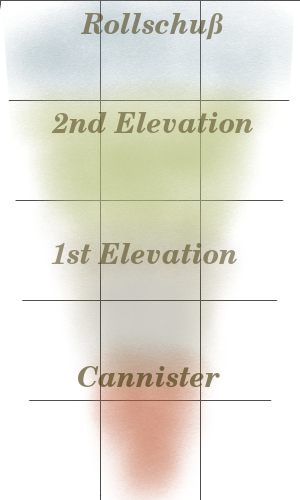
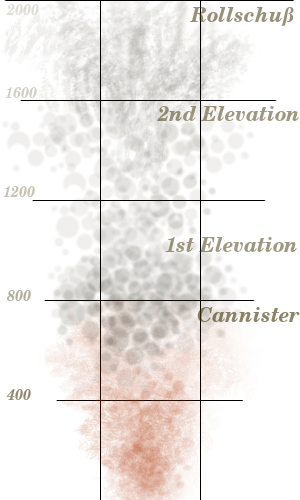
finish off the gunnery table displays, and fix unitcards on game invite view

diff --git a/scss/_Button.sass b/scss/_Button.sass
@@ -98,6 +98,9 @@ input[type='submit']
 				color: $color-primary
 				border-color: inherit
 
+	&.button-case
+		text-transform: none
+
 	&.button-clear
 		color: $color-primary
 		background-color: transparent

diff --git a/scss/app.sass b/scss/app.sass
@@ -385,3 +385,6 @@ img
 
 	&:focus
 		border: 1px solid rgba(47, 44, 78, 0.74) !important
+
+.gunnery_chart
+	height: 80vh !important

diff --git a/app/game_invite.go b/app/game_invite.go
@@ -36,6 +36,7 @@ func _gameInvite(action string, actionID int, context *router.Context) {
 	go func() {
 		game := shared.Game{}
 		TheCmd := &shared.GameCmd{}
+		TheUnit := &shared.Unit{}
 
 		rerr := RPC("GameRPC.GetInvite", shared.GameRPCData{
 			Channel:  Session.Channel,
@@ -349,16 +350,57 @@ func _gameInvite(action string, actionID int, context *router.Context) {
 				tr := td.ParentElement()
 				key, _ := strconv.Atoi(tr.GetAttribute("key"))
 				team := tr.GetAttribute("data-team")
-				// print("clicked on row with key", key)
+				print("clicked on row with key", key)
 				unit := game.GetUnit(team, key)
-				// print("unit is", unit)
+				TheUnit = unit
+				print("unit is", unit)
 				if unit.UType == 1 {
 					unit.Summary = unit.GetSummary(TheCmd)
 				}
 				loadTemplate("unit-details", "#unit-details", unit)
 				doc.QuerySelector("#unit-details").AddEventListener("click", false, func(evt dom.Event) {
 					// print("clicke on the unit details")
-					doc.QuerySelector("#unit-details").Class().Remove("md-show")
+					unit := TheUnit
+					el := evt.Target()
+					print("clicked on a ", el.TagName())
+					if el.TagName() == "INPUT" {
+						value := el.(*dom.HTMLInputElement).Value
+						print("with value", value)
+						print("on utype", unit.UType)
+						switch unit.UType {
+						case 1:
+							doc.QuerySelector("#unit-details").Class().Remove("md-show")
+						case 2, 5:
+							switch value {
+							case "Valour":
+								loadTemplate("unit-valour", "[name=unitcard]", unit)
+								return
+							case "Discipline":
+								loadTemplate("unit-discipline", "[name=unitcard]", unit)
+								return
+							default:
+								doc.QuerySelector("#unit-details").Class().Remove("md-show")
+							}
+						case 3:
+							// print("in cav with", value)
+							switch value {
+							case "Honours":
+								// print("here with Honours")
+								loadTemplate("unit-cav-details", "[name=unitcard]", unit)
+								return
+							default:
+								doc.QuerySelector("#unit-details").Class().Remove("md-show")
+							}
+						case 4:
+							switch value {
+							case "Gunnery Chart":
+								loadTemplate("unit-gunnery", "[name=unitcard]", unit)
+								return
+							default:
+								doc.QuerySelector("#unit-details").Class().Remove("md-show")
+							}
+						}
+					} // tag input
 				})
 				doc.QuerySelector("#unit-details").Class().Add("md-show")
 			}

diff --git a/shared/game.go b/shared/game.go
@@ -666,8 +666,14 @@ func (u *Unit) GetAppraisal() string {
 	case 2, 5:
 		d := Lookups.DrillType[u.Drill-1].Control
 		r := Lookups.UnitRating[u.Rating-1].FireBonus
-		c := d + r + rand.Intn(3) - 1
+		cond := Lookups.Condition[u.Condition-1].Effect
+		if cond < 0 {
+			cond *= 2
+		}
+		c := cond + d + r + rand.Intn(3) - 1
 		switch c {
+		case -1, -2, -3:
+			return "This unit is unfit for battle Sir. They must be taken out of the line, or Surrender is our only option."
 		case 0, 1, 2:
 			return "This unit, Sir, is a discrace. A total discrace to arms, infested with the worst sort of criminal, scoundrel and skiving laggard."
 		case 3:
@@ -686,6 +692,8 @@ func (u *Unit) GetAppraisal() string {
 			return "A fine group of Lads they are Sir. They know how to handle a musket, and they polish up allght too. Good Soldiers they are."
 		case 10, 11, 12:
 			return "Remarkable ! I have rarely seen a better prepared unit Sir, and it will be an honour to fight with them."
+		case 13, 14, 15:
+			return "Splendid ! Let us at em Sir, we can take this battle single handed ... the enemy stands no chance against these fine men !"
 		}
 	}
 	return ""
